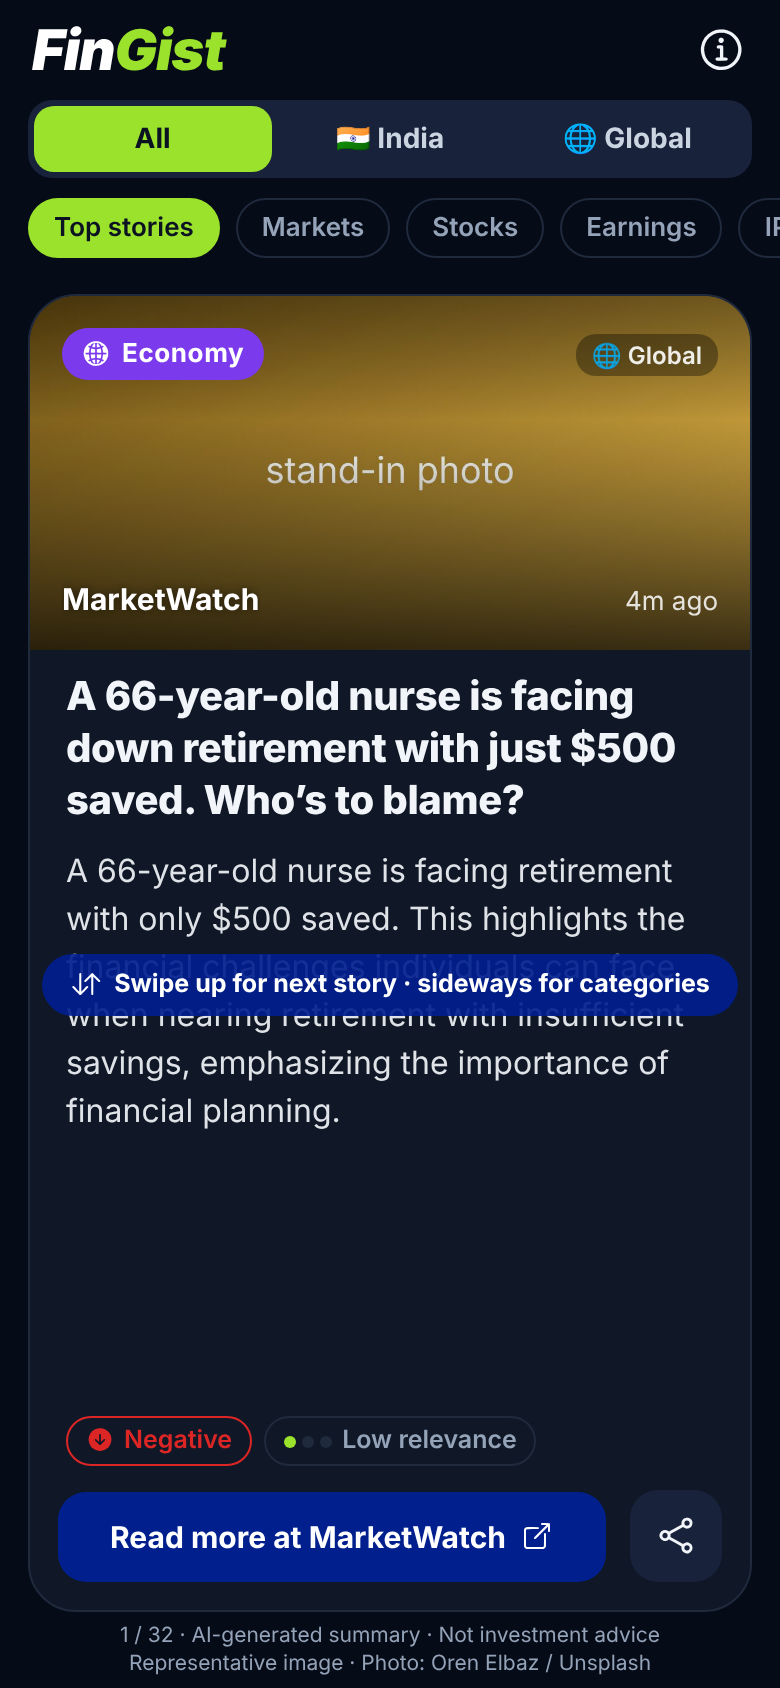
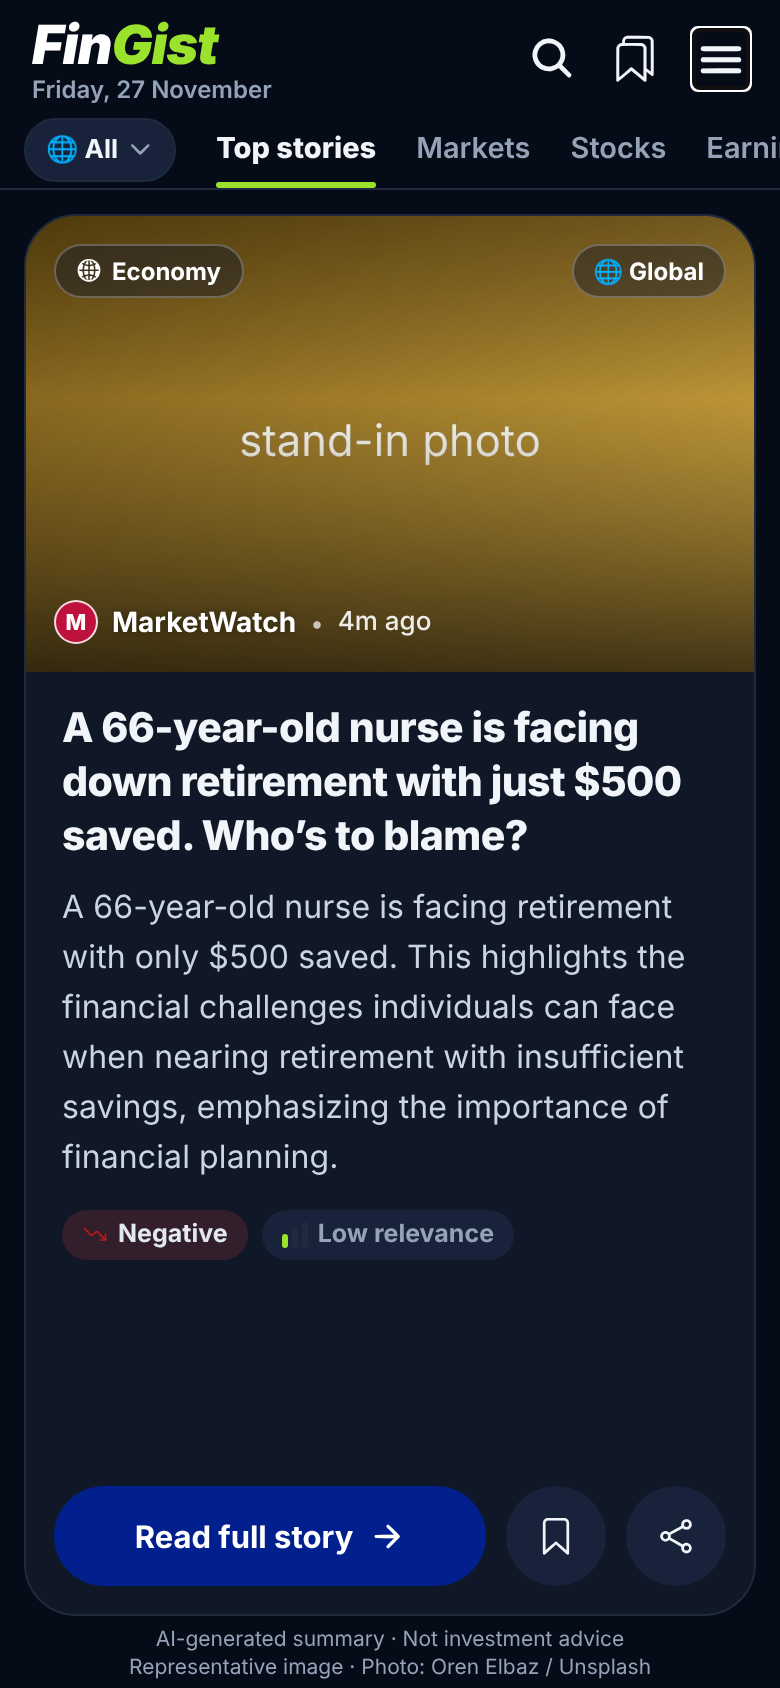
Night mode setting, test alert, clear cache
App
- Appearance in More: Auto (follows the phone) / Light / Night, saved on
  the phone; switches use lime in Night mode for contrast
- "Send test alert": re-registers this phone, sends a test notification
  and explains failures (missing Apple push key, expired registration,
  server not updated, notifications not allowed)
- Storage: "Clear cache" removes downloaded photos and saved news, keeps
  bookmarks and settings, and reloads fresh news; photos are also
  cleared automatically once a week

Backend
- POST /v1/devices/test: sends a test notification to a registered
  phone (max once a minute) and checks Expo's delivery receipt, so
  Apple/Google credential errors are reported

Claude-Session: https://claude.ai/code/session_01DWhNMPGLuZHDoqp2VPMZzT

diff --git a/app/src/components/MoreSheet.tsx b/app/src/components/MoreSheet.tsx
@@ -3,10 +3,33 @@ import * as StoreReview from 'expo-store-review';
 import * as WebBrowser from 'expo-web-browser';
 import { Alert, Linking, Modal, Platform, Pressable, ScrollView, Share, StyleSheet, Switch, Text, View } from 'react-native';
 import { useSafeAreaInsets } from 'react-native-safe-area-context';
+import { useQueryClient } from '@tanstack/react-query';
+import { useState } from 'react';
 import { useAlerts } from '../lib/alerts';
+import { clearAppCache } from '../lib/cache';
 import { config } from '../lib/config';
 import type { RegionFilter } from '../lib/types';
-import { BRAND, useTheme, type Theme } from '../theme';
+import { BRAND, useTheme, useThemeMode, type Theme, type ThemeMode } from '../theme';
+
+/** Plain-language explanation of a failed test alert, with what to do. */
+function testAlertHelp(error?: string, message?: string): string {
+  switch (error) {
+    case 'InvalidCredentials':
+      return 'Apple has not got this app\'s push key yet. On your Mac, in the app folder, run:\n\nnpx eas-cli@latest credentials -p ios\n\nChoose production → Push Notifications → set up a new key. Then tap Send test alert again.';
+    case 'DeviceNotRegistered':
+      return 'This phone\'s alert registration has expired. Turn News alerts off and on, then try again.';
+    case 'NotRegistered':
+      return 'The server does not know this phone yet. Make sure the latest server is deployed (npm run deploy in backend), then try again.';
+    case 'OldServer':
+      return 'The server needs the latest update. In the backend folder run: npm run deploy';
+    case 'TooSoon':
+      return 'Please wait a minute before sending another test.';
+    case 'Phone':
+      return message ?? 'Notifications are not allowed for FinGist. Allow them in iPhone Settings → FinGist → Notifications.';
+    default:
+      return `${error ?? 'Unknown error'}${message ? `: ${message}` : ''}`;
+  }
+}
 
 const MORNING_SUB: Record<RegionFilter, string> = {
   india: 'Weekdays about 8:45 am, before NSE/BSE open',
@@ -46,7 +69,9 @@ function SettingRow({ icon, label, sub, onPress, right, t, st, accent }: RowProp
 }
 
 function Toggle({ value, onChange, disabled }: { value: boolean; onChange: (v: boolean) => void; disabled?: boolean }) {
-  return <Switch value={value} disabled={disabled} onValueChange={onChange} trackColor={{ true: BRAND.navy }} />;
+  const t = useTheme();
+  // Lime in Night mode: navy would be hard to see on the dark background.
+  return <Switch value={value} disabled={disabled} onValueChange={onChange} trackColor={{ true: t.isDark ? '#5fa80f' : BRAND.navy }} />;
 }
 
 const SOURCES = 'Economic Times, Mint, BusinessLine, CNBC-TV18, MarketWatch, Reserve Bank of India, SEBI, US Federal Reserve';
@@ -63,6 +88,34 @@ export function MoreSheet({ visible, onClose, onShowTour, onDismiss }: { visible
   const st = styles(t);
   const insets = useSafeAreaInsets();
   const alerts = useAlerts();
+  const queryClient = useQueryClient();
+  const { mode, setMode } = useThemeMode();
+  const [testing, setTesting] = useState(false);
+  const [clearing, setClearing] = useState(false);
+
+  const sendTest = async () => {
+    setTesting(true);
+    const r = await alerts.test();
+    setTesting(false);
+    if (r.ok) Alert.alert('Test alert sent', 'You should see "FinGist alerts are working" within a few seconds. If nothing arrives, check iPhone Settings → FinGist → Notifications, and Focus / Do Not Disturb.');
+    else Alert.alert('Alert could not be delivered', testAlertHelp(r.error, r.message));
+  };
+
+  const clearCache = () => {
+    Alert.alert('Clear cache?', 'Removes downloaded photos and saved news, then loads fresh news. Your bookmarks and settings are kept.', [
+      { text: 'Cancel', style: 'cancel' },
+      {
+        text: 'Clear',
+        style: 'destructive',
+        onPress: async () => {
+          setClearing(true);
+          await clearAppCache(queryClient);
+          setClearing(false);
+          Alert.alert('Cache cleared', 'Fresh news is loading.');
+        },
+      },
+    ]);
+  };
   const accent = t.isDark ? BRAND.lime : BRAND.navy;
 
   const shareApp = () => {
@@ -147,12 +200,43 @@ export function MoreSheet({ visible, onClose, onShowTour, onDismiss }: { visible
                   <SettingRow {...rt} icon="flash" label="Breaking news" sub="Important stories during the day" right={<Toggle value={alerts.prefs.breaking} onChange={(v) => { void alerts.update({ breaking: v }); }} />} />
                   <View style={st.divider} />
                   <SettingRow {...rt} icon="moon" label="Quiet hours" sub="No alerts from 10 pm to 7 am" right={<Toggle value={alerts.prefs.quietHours} onChange={(v) => { void alerts.update({ quietHours: v }); }} />} />
+                  <View style={st.divider} />
+                  <SettingRow {...rt} icon="paper-plane" label={testing ? 'Sending test alert…' : 'Send test alert'} sub="Check that alerts reach this phone" onPress={testing ? undefined : sendTest} />
                 </>
               )}
             </View>
             <Text style={st.note}>
               {alerts.error ?? 'All alerts follow your All / India / Global choice. At most 8 a day; turn off any type at any time.'}
             </Text>
+          </View>
+
+          <View>
+            <Text style={st.section}>Appearance</Text>
+            <View style={st.group}>
+              <View style={st.row}>
+                <View style={[st.rowIcon, { backgroundColor: t.chip }]}><Ionicons name={t.isDark ? 'moon' : 'sunny'} size={17} color={accent} /></View>
+                <Text style={[st.rowLabel, { flex: 1 }]}>Theme</Text>
+                <View style={st.segment}>
+                  {(['system', 'light', 'dark'] as ThemeMode[]).map((m) => {
+                    const active = mode === m;
+                    return (
+                      <Pressable key={m} onPress={() => setMode(m)} style={[st.segItem, active && { backgroundColor: accent }]} accessibilityRole="button" accessibilityState={{ selected: active }}>
+                        <Text style={[st.segText, { color: active ? (t.isDark ? '#0b1222' : '#fff') : t.textMuted }]}>{m === 'system' ? 'Auto' : m === 'light' ? 'Light' : 'Night'}</Text>
+                      </Pressable>
+                    );
+                  })}
+                </View>
+              </View>
+            </View>
+            <Text style={st.note}>Auto follows your phone's Light or Dark setting.</Text>
+          </View>
+
+          <View>
+            <Text style={st.section}>Storage</Text>
+            <View style={st.group}>
+              <SettingRow {...rt} icon="trash" label={clearing ? 'Clearing…' : 'Clear cache'} sub="Photos and saved news. Bookmarks and settings are kept." onPress={clearing ? undefined : clearCache} />
+            </View>
+            <Text style={st.note}>Photos are also cleaned up automatically every week.</Text>
           </View>
 
           <View>

diff --git a/backend/src/worker.ts b/backend/src/worker.ts
@@ -3,7 +3,7 @@ import { enrichBatch } from './enrich/enrich';
 import { RateLimitError, TransientError } from './enrich/gemini';
 import { photoSourceFromEnv } from './enrich/photos';
 import { deleteDevice, digestOnce, notifyOnce, upsertDevice } from './notify/notify';
-import { isExpoToken } from './notify/push';
+import { isExpoToken, sendTestPush } from './notify/push';
 import { IMAGE_TOPICS } from './data/imageTopics';
 import { dedupeList, titleTokens } from './ingest/dedupe';
 import { collectSource } from './pipeline';
@@ -124,6 +124,20 @@ export default {
       if (!/^[a-f0-9]{32}$/.test(id)) return json({ error: 'not found' }, 404);
       const story = await getStory(env.DB, id, await getPhotoCache(env.DB));
       return story ? json(story, 200, { 'cache-control': 'public, max-age=300' }) : json({ error: 'not found' }, 404);
+    }
+
+    if (path === '/v1/devices/test' && req.method === 'POST') {
+      let body: Record<string, unknown>;
+      try { body = (await req.json()) as Record<string, unknown>; } catch { return json({ error: 'invalid JSON' }, 400); }
+      if (!isExpoToken(body.token)) return json({ error: 'invalid token' }, 400);
+      // Only phones registered for alerts can ask for a test, at most once a minute.
+      const now = Date.now();
+      const dev = await env.DB.prepare('SELECT updated_at FROM devices WHERE token = ?1').bind(body.token).first<{ updated_at: number }>();
+      if (!dev) return json({ ok: false, stage: 'register', error: 'NotRegistered', message: 'This phone is not registered for alerts on the server yet.' });
+      const last = await env.DB.prepare('SELECT last_fetch_at FROM source_state WHERE source_id = ?1').bind(`__test_${body.token.slice(-12)}`).first<{ last_fetch_at: number }>();
+      if (last && now - last.last_fetch_at < 60_000) return json({ ok: false, stage: 'limit', error: 'TooSoon', message: 'Please wait a minute before sending another test.' });
+      await env.DB.prepare(`INSERT INTO source_state (source_id, last_fetch_at) VALUES (?1, ?2) ON CONFLICT(source_id) DO UPDATE SET last_fetch_at = ?2`).bind(`__test_${body.token.slice(-12)}`, now).run();
+      return json(await sendTestPush(body.token));
     }
 
     if (path === '/v1/devices' && (req.method === 'POST' || req.method === 'DELETE')) {

diff --git a/app/src/lib/alerts.tsx b/app/src/lib/alerts.tsx
@@ -3,7 +3,7 @@ import * as Device from 'expo-device';
 import * as Notifications from 'expo-notifications';
 import { createContext, useCallback, useContext, useEffect, useMemo, useRef, useState } from 'react';
 import { Platform } from 'react-native';
-import { removeDevice, saveDevice } from './api';
+import { removeDevice, saveDevice, sendTestAlert, type TestAlertResult } from './api';
 import { config } from './config';
 import type { RegionFilter } from './types';
 
@@ -63,6 +63,8 @@ interface Alerts {
    * Resolves when the person has answered (or straight away on later launches).
    */
   firstRunPermission: () => Promise<void>;
+  /** Registers this phone again and sends a test alert; returns what happened. */
+  test: () => Promise<TestAlertResult>;
 }
 
 const Ctx = createContext<Alerts | null>(null);
@@ -148,6 +150,17 @@ export function AlertsProvider({ children }: { children: React.ReactNode }) {
 
   const markPromptSeen = useCallback(() => { change((prev) => ({ ...prev, promptSeen: true })); }, [change]);
 
+  const test = useCallback(async (): Promise<TestAlertResult> => {
+    try {
+      const token = await getToken();
+      const p = change((prev) => ({ ...prev, enabled: true, token }));
+      await saveDevice({ token, platform: Platform.OS, ...devicePrefs(p) });
+      return await sendTestAlert(token);
+    } catch (e) {
+      return { ok: false, stage: 'phone', error: 'Phone', message: (e as Error).message };
+    }
+  }, [change]);
+
   const loaded = useRef<Promise<void> | null>(null);
   const firstRunPermission = useCallback(async () => {
     await loaded.current;
@@ -164,7 +177,7 @@ export function AlertsProvider({ children }: { children: React.ReactNode }) {
     }
   }, [change]);
 
-  const value = useMemo<Alerts>(() => ({ prefs: prefs ?? DEFAULTS, busy, error, setEnabled, update, markPromptSeen, firstRunPermission }), [prefs, busy, error, setEnabled, update, markPromptSeen, firstRunPermission]);
+  const value = useMemo<Alerts>(() => ({ prefs: prefs ?? DEFAULTS, busy, error, setEnabled, update, markPromptSeen, firstRunPermission, test }), [prefs, busy, error, setEnabled, update, markPromptSeen, firstRunPermission, test]);
   return <Ctx.Provider value={value}>{children}</Ctx.Provider>;
 }
 

diff --git a/backend/src/notify/push.ts b/backend/src/notify/push.ts
@@ -59,3 +59,33 @@ export function inQuietHours(now: number): boolean {
   const { hour } = istParts(now);
   return hour >= 22 || hour < 7;
 }
+
+export const EXPO_RECEIPTS_URL = 'https://exp.host/--/api/v2/push/getReceipts';
+
+/**
+ * Sends one test notification and reports what happened, including Apple/Google errors that only
+ * show up in Expo's delivery receipt (for example missing push credentials for a new build).
+ */
+export async function sendTestPush(token: string, wait = (ms: number) => new Promise((r) => setTimeout(r, ms))): Promise<{ ok: boolean; stage: string; error?: string; message?: string }> {
+  const res = await fetch(EXPO_PUSH_URL, {
+    method: 'POST',
+    headers: { 'content-type': 'application/json', accept: 'application/json' },
+    body: JSON.stringify([{ to: token, title: '✅ FinGist alerts are working', body: 'You will get market news alerts on this phone.', sound: 'default', channelId: 'breaking', data: { type: 'test' } }]),
+  });
+  if (!res.ok) return { ok: false, stage: 'send', error: `HTTP ${res.status}`, message: (await res.text()).slice(0, 200) };
+  const ticket = ((await res.json()) as { data?: PushTicket[] }).data?.[0];
+  if (!ticket || ticket.status !== 'ok' || !ticket.id) {
+    return { ok: false, stage: 'send', error: ticket?.details?.error ?? 'unknown', message: ticket?.message };
+  }
+  // Delivery problems (e.g. InvalidCredentials, DeviceNotRegistered) appear in the receipt a moment later.
+  for (const ms of [2500, 4000]) {
+    await wait(ms);
+    const r = await fetch(EXPO_RECEIPTS_URL, { method: 'POST', headers: { 'content-type': 'application/json' }, body: JSON.stringify({ ids: [ticket.id] }) });
+    if (!r.ok) continue;
+    const receipt = ((await r.json()) as { data?: Record<string, PushTicket> }).data?.[ticket.id];
+    if (!receipt) continue;
+    if (receipt.status === 'ok') return { ok: true, stage: 'delivered to Apple/Google' };
+    return { ok: false, stage: 'delivery', error: receipt.details?.error ?? 'unknown', message: receipt.message };
+  }
+  return { ok: true, stage: 'sent (delivery receipt not ready yet)' };
+}

diff --git a/app/App.tsx b/app/App.tsx
@@ -13,7 +13,11 @@ import { IntroSplash } from './src/components/IntroSplash';
 import { AlertsProvider } from './src/lib/alerts';
 import { BookmarksProvider } from './src/lib/bookmarks';
 import { TourProvider } from './src/lib/tour';
+import { NEWS_CACHE_KEY } from './src/lib/cache';
+import { ThemeModeProvider } from './src/lib/themeMode';
 import { useTheme } from './src/theme';
+import { Image } from 'expo-image';
+import AsyncStorageAuto from '@react-native-async-storage/async-storage';
 
 SplashScreen.preventAutoHideAsync().catch(() => {});
 
@@ -26,7 +30,7 @@ const queryClient = new QueryClient({
 });
 
 // Saved stories survive app restarts and are shown when offline.
-const persister = createAsyncStoragePersister({ storage: AsyncStorage, key: 'fingist.cache.v1', throttleTime: 2000 });
+const persister = createAsyncStoragePersister({ storage: AsyncStorage, key: NEWS_CACHE_KEY, throttleTime: 2000 });
 
 // Refetch when the app comes back to the foreground.
 focusManager.setEventListener((setFocused) => {
@@ -38,11 +42,33 @@ focusManager.setEventListener((setFocused) => {
 onlineManager.setOnline(true);
 
 export default function App() {
+  return (
+    <ThemeModeProvider>
+      <AppContent />
+    </ThemeModeProvider>
+  );
+}
+
+const IMAGE_CLEAN_KEY = 'fingist.imageCacheCleanedAt';
+
+function AppContent() {
   const t = useTheme();
   const [restored, setRestored] = useState(false);
   useEffect(() => {
     SystemUI.setBackgroundColorAsync(t.bg).catch(() => {});
   }, [t.bg]);
+  // Keep downloaded card photos from piling up: clear the photo cache once a week.
+  useEffect(() => {
+    AsyncStorageAuto.getItem(IMAGE_CLEAN_KEY)
+      .then((v) => {
+        const week = 7 * DAY;
+        if (!v || Date.now() - Number(v) > week) {
+          Image.clearDiskCache().catch(() => {});
+          AsyncStorageAuto.setItem(IMAGE_CLEAN_KEY, String(Date.now())).catch(() => {});
+        }
+      })
+      .catch(() => {});
+  }, []);
   return (
     <SafeAreaProvider>
       <PersistQueryClientProvider

diff --git a/backend/test/notify.test.ts b/backend/test/notify.test.ts
@@ -54,3 +54,20 @@ describe('sendPush', () => {
     expect(r).toEqual({ sent: 2, invalid: ['gone'], errors: [] });
   });
 });
+
+describe('sendTestPush', () => {
+  it('reports Apple credential problems from the receipt', async () => {
+    const { sendTestPush } = await import('../src/notify/push');
+    vi.stubGlobal('fetch', vi.fn(async (url: string) => {
+      if (url.endsWith('/send')) return new Response(JSON.stringify({ data: [{ status: 'ok', id: 'r1' }] }));
+      return new Response(JSON.stringify({ data: { r1: { status: 'error', message: 'Could not find APNs credentials', details: { error: 'InvalidCredentials' } } } }));
+    }));
+    const r = await sendTestPush('ExponentPushToken[abcdefghijklmn]', async () => {});
+    expect(r).toEqual({ ok: false, stage: 'delivery', error: 'InvalidCredentials', message: 'Could not find APNs credentials' });
+  });
+  it('reports success when the receipt is ok', async () => {
+    const { sendTestPush } = await import('../src/notify/push');
+    vi.stubGlobal('fetch', vi.fn(async (url: string) => new Response(JSON.stringify(url.endsWith('/send') ? { data: [{ status: 'ok', id: 'r1' }] } : { data: { r1: { status: 'ok' } } }))));
+    expect((await sendTestPush('ExponentPushToken[abcdefghijklmn]', async () => {})).ok).toBe(true);
+  });
+});

diff --git a/app/src/theme.ts b/app/src/theme.ts
@@ -1,3 +1,4 @@
+import { createContext, useContext } from 'react';
 import { useColorScheme } from 'react-native';
 import type { Ionicons } from '@expo/vector-icons';
 import type { Relevance, Sentiment } from './lib/types';
@@ -44,8 +45,16 @@ const dark: typeof light = {
 
 export type Theme = typeof light & { isDark: boolean };
 
+export type ThemeMode = 'system' | 'light' | 'dark';
+
+/** The person's Appearance choice (More → Appearance); 'system' follows the phone. */
+export const ThemeModeContext = createContext<{ mode: ThemeMode; setMode: (m: ThemeMode) => void }>({ mode: 'system', setMode: () => {} });
+export const useThemeMode = () => useContext(ThemeModeContext);
+
 export function useTheme(): Theme {
-  const isDark = useColorScheme() === 'dark';
+  const system = useColorScheme();
+  const { mode } = useContext(ThemeModeContext);
+  const isDark = mode === 'system' ? system === 'dark' : mode === 'dark';
   return { ...(isDark ? dark : light), isDark };
 }
 

diff --git a/app/src/lib/themeMode.tsx b/app/src/lib/themeMode.tsx
@@ -1,0 +1,21 @@
+import AsyncStorage from '@react-native-async-storage/async-storage';
+import { useCallback, useEffect, useMemo, useState } from 'react';
+import { ThemeModeContext, type ThemeMode } from '../theme';
+
+const KEY = 'fingist.themeMode.v1';
+
+/** Remembers the Appearance choice (System / Light / Dark) on the phone. */
+export function ThemeModeProvider({ children }: { children: React.ReactNode }) {
+  const [mode, setModeState] = useState<ThemeMode>('system');
+  useEffect(() => {
+    AsyncStorage.getItem(KEY)
+      .then((v) => { if (v === 'light' || v === 'dark' || v === 'system') setModeState(v); })
+      .catch(() => {});
+  }, []);
+  const setMode = useCallback((m: ThemeMode) => {
+    setModeState(m);
+    AsyncStorage.setItem(KEY, m).catch(() => {});
+  }, []);
+  const value = useMemo(() => ({ mode, setMode }), [mode, setMode]);
+  return <ThemeModeContext.Provider value={value}>{children}</ThemeModeContext.Provider>;
+}

diff --git a/app/src/lib/api.ts b/app/src/lib/api.ts
@@ -48,3 +48,12 @@ export async function saveDevice(d: { token: string; platform: string; region: R
 export async function removeDevice(token: string): Promise<void> {
   await fetch(`${API_URL}/v1/devices`, { method: 'DELETE', headers: { 'content-type': 'application/json' }, body: JSON.stringify({ token }) });
 }
+
+export interface TestAlertResult { ok: boolean; stage: string; error?: string; message?: string }
+
+export async function sendTestAlert(token: string): Promise<TestAlertResult> {
+  const res = await fetch(`${API_URL}/v1/devices/test`, { method: 'POST', headers: { 'content-type': 'application/json' }, body: JSON.stringify({ token }) });
+  if (res.status === 404) return { ok: false, stage: 'server', error: 'OldServer', message: 'The server needs the latest update (npm run deploy).' };
+  if (!res.ok) return { ok: false, stage: 'server', error: `HTTP ${res.status}` };
+  return (await res.json()) as TestAlertResult;
+}

diff --git a/app/src/lib/cache.ts b/app/src/lib/cache.ts
@@ -1,0 +1,20 @@
+import AsyncStorage from '@react-native-async-storage/async-storage';
+import type { QueryClient } from '@tanstack/react-query';
+import { Image } from 'expo-image';
+
+/** Key of the saved news cache (stories kept for offline reading). */
+export const NEWS_CACHE_KEY = 'fingist.cache.v1';
+
+/**
+ * Clears downloaded card photos and saved news, then reloads fresh news.
+ * Bookmarks, recent searches, alert and appearance settings are kept.
+ */
+export async function clearAppCache(queryClient: QueryClient): Promise<void> {
+  await Promise.all([
+    Image.clearDiskCache().catch(() => false),
+    Image.clearMemoryCache().catch(() => false),
+    AsyncStorage.removeItem(NEWS_CACHE_KEY).catch(() => {}),
+  ]);
+  queryClient.clear();
+  await queryClient.refetchQueries({ type: 'active' }).catch(() => {});
+}
